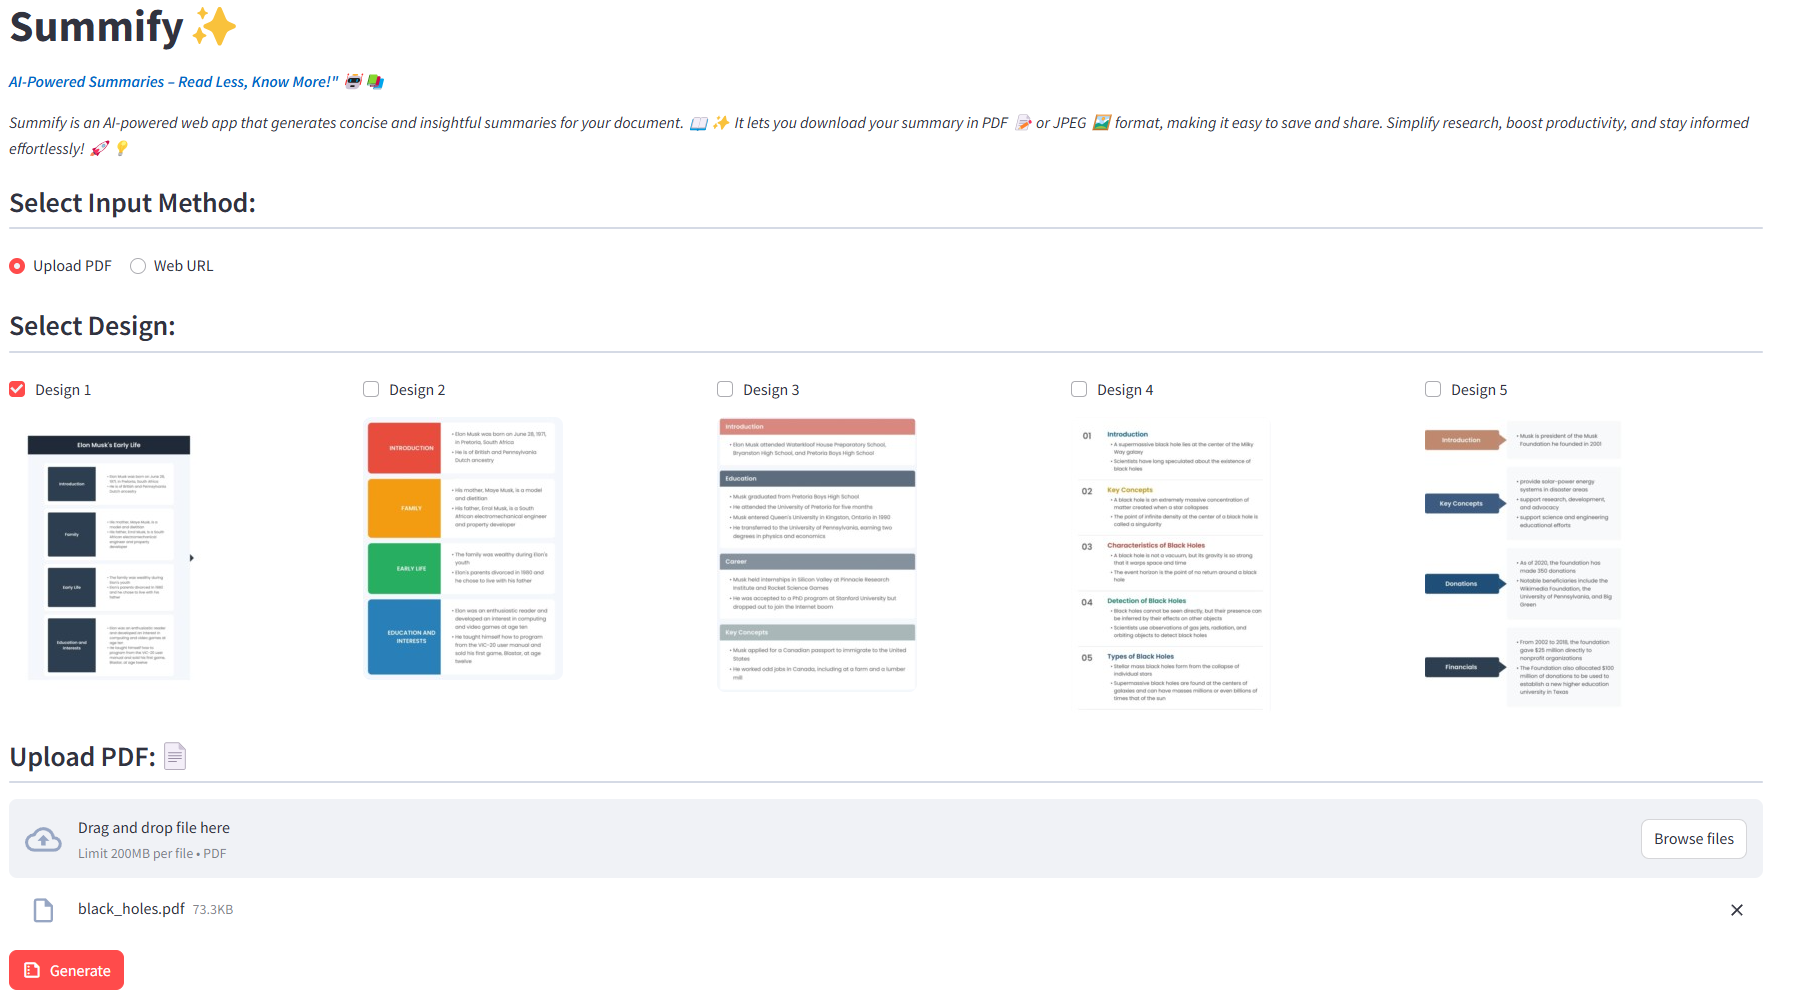
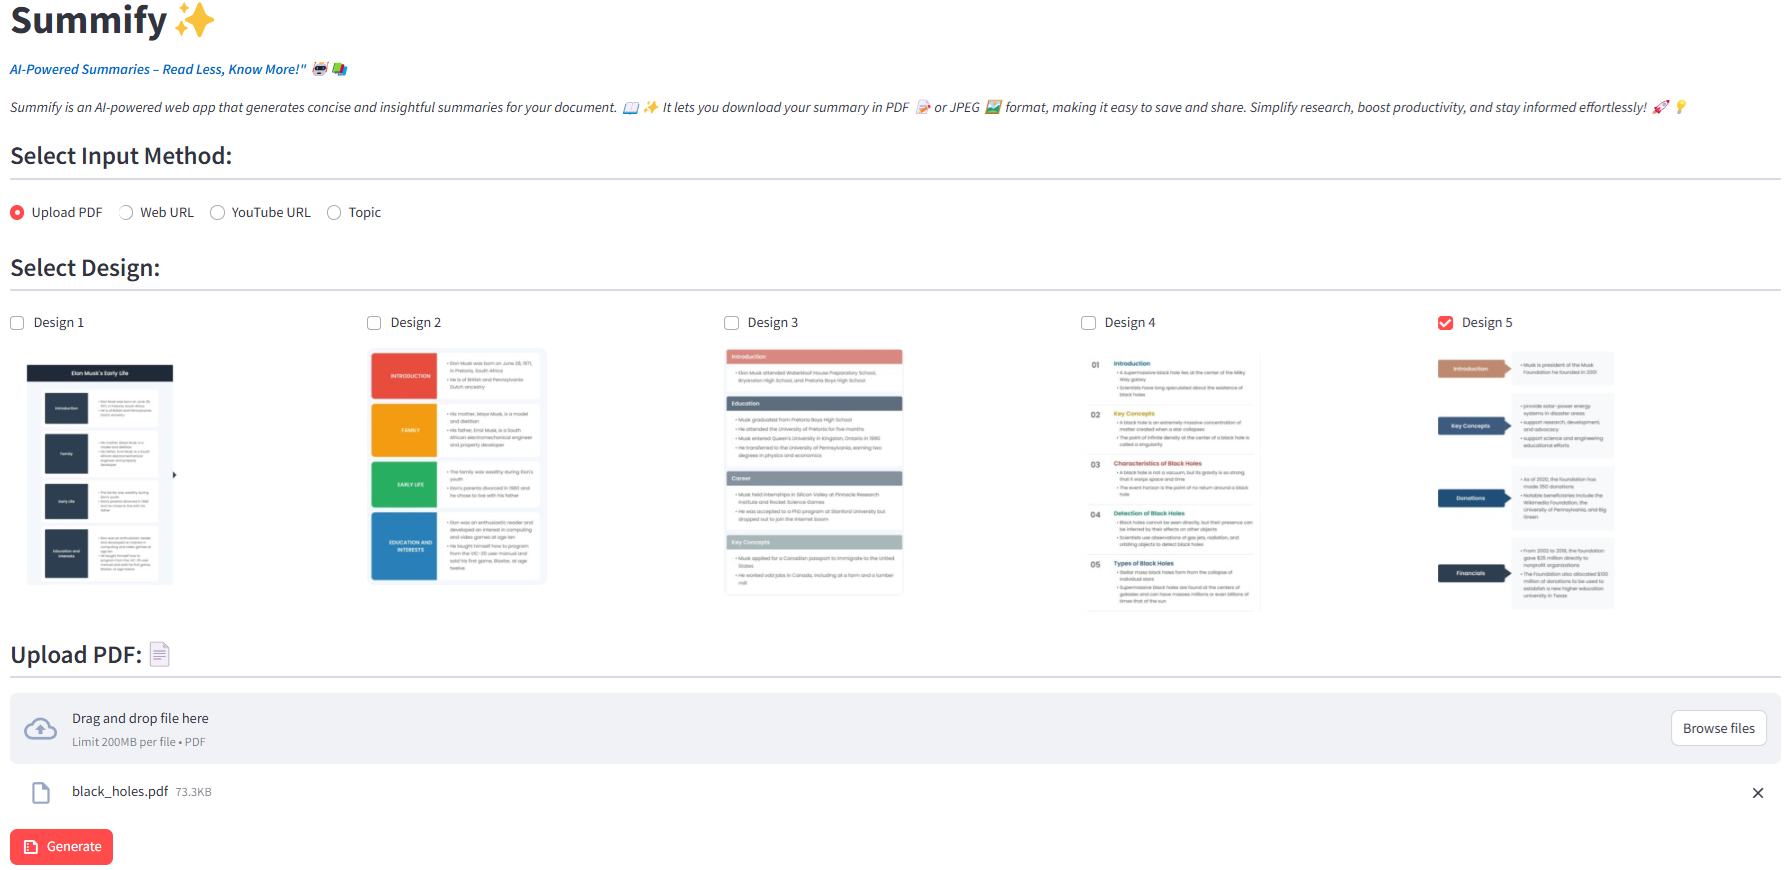
Updated the application description

diff --git a/main.py b/main.py
@@ -43,9 +43,10 @@ def update_design(selected):
 st.title(f'{page_title}{page_icon}')
 st.write('***:blue[AI-Powered Summaries – Read Less, Know More!" 🤖📚]***')
 st.write("""
-*Summify is an AI-powered web app that generates concise and insightful summaries for your document. 📖✨ 
-It lets you download your summary in PDF 📝 or JPEG 🖼 format, making it easy to save and share. Simplify research, 
-boost productivity, and stay informed effortlessly! 🚀💡*
+*Summify is an AI-powered web app that generates concise and insightful summaries from various sources. 📖✨ Upload a 
+document, provide a web URL, enter a YouTube video URL, or specify a topic, and Summify will create a clear and 
+structured summary for you. Download your summary in PDF 📝 or JPEG 🖼 format, making it easy to save and share. 
+Simplify research, boost productivity, and stay informed effortlessly! 🚀💡*
 """)
 
 # Variable to store input provided by the user. In case of PDF upload, it will have path to pdf file and for Web URL, it

diff --git a/README.md b/README.md
@@ -1,9 +1,10 @@
 # Summify ✨
 AI-Powered Summaries – Read Less, Know More!" 🤖📚
 
-Summify is an AI-powered web app that generates concise and insightful summaries for your document. 📖✨ 
-It lets you download your summary in PDF 📝 or JPEG 🖼 format, making it easy to save and share. Simplify research, 
-boost productivity, and stay informed effortlessly! 🚀💡
+Summify is an AI-powered web app that generates concise and insightful summaries from various sources. 📖✨ Upload a 
+document, provide a web URL, enter a YouTube video URL, or specify a topic, and Summify will create a clear and 
+structured summary for you. Download your summary in PDF 📝 or JPEG 🖼 format, making it easy to save and share. 
+Simplify research, boost productivity, and stay informed effortlessly! 🚀💡
 
 # Application Link
 https://summify-st.streamlit.app/
